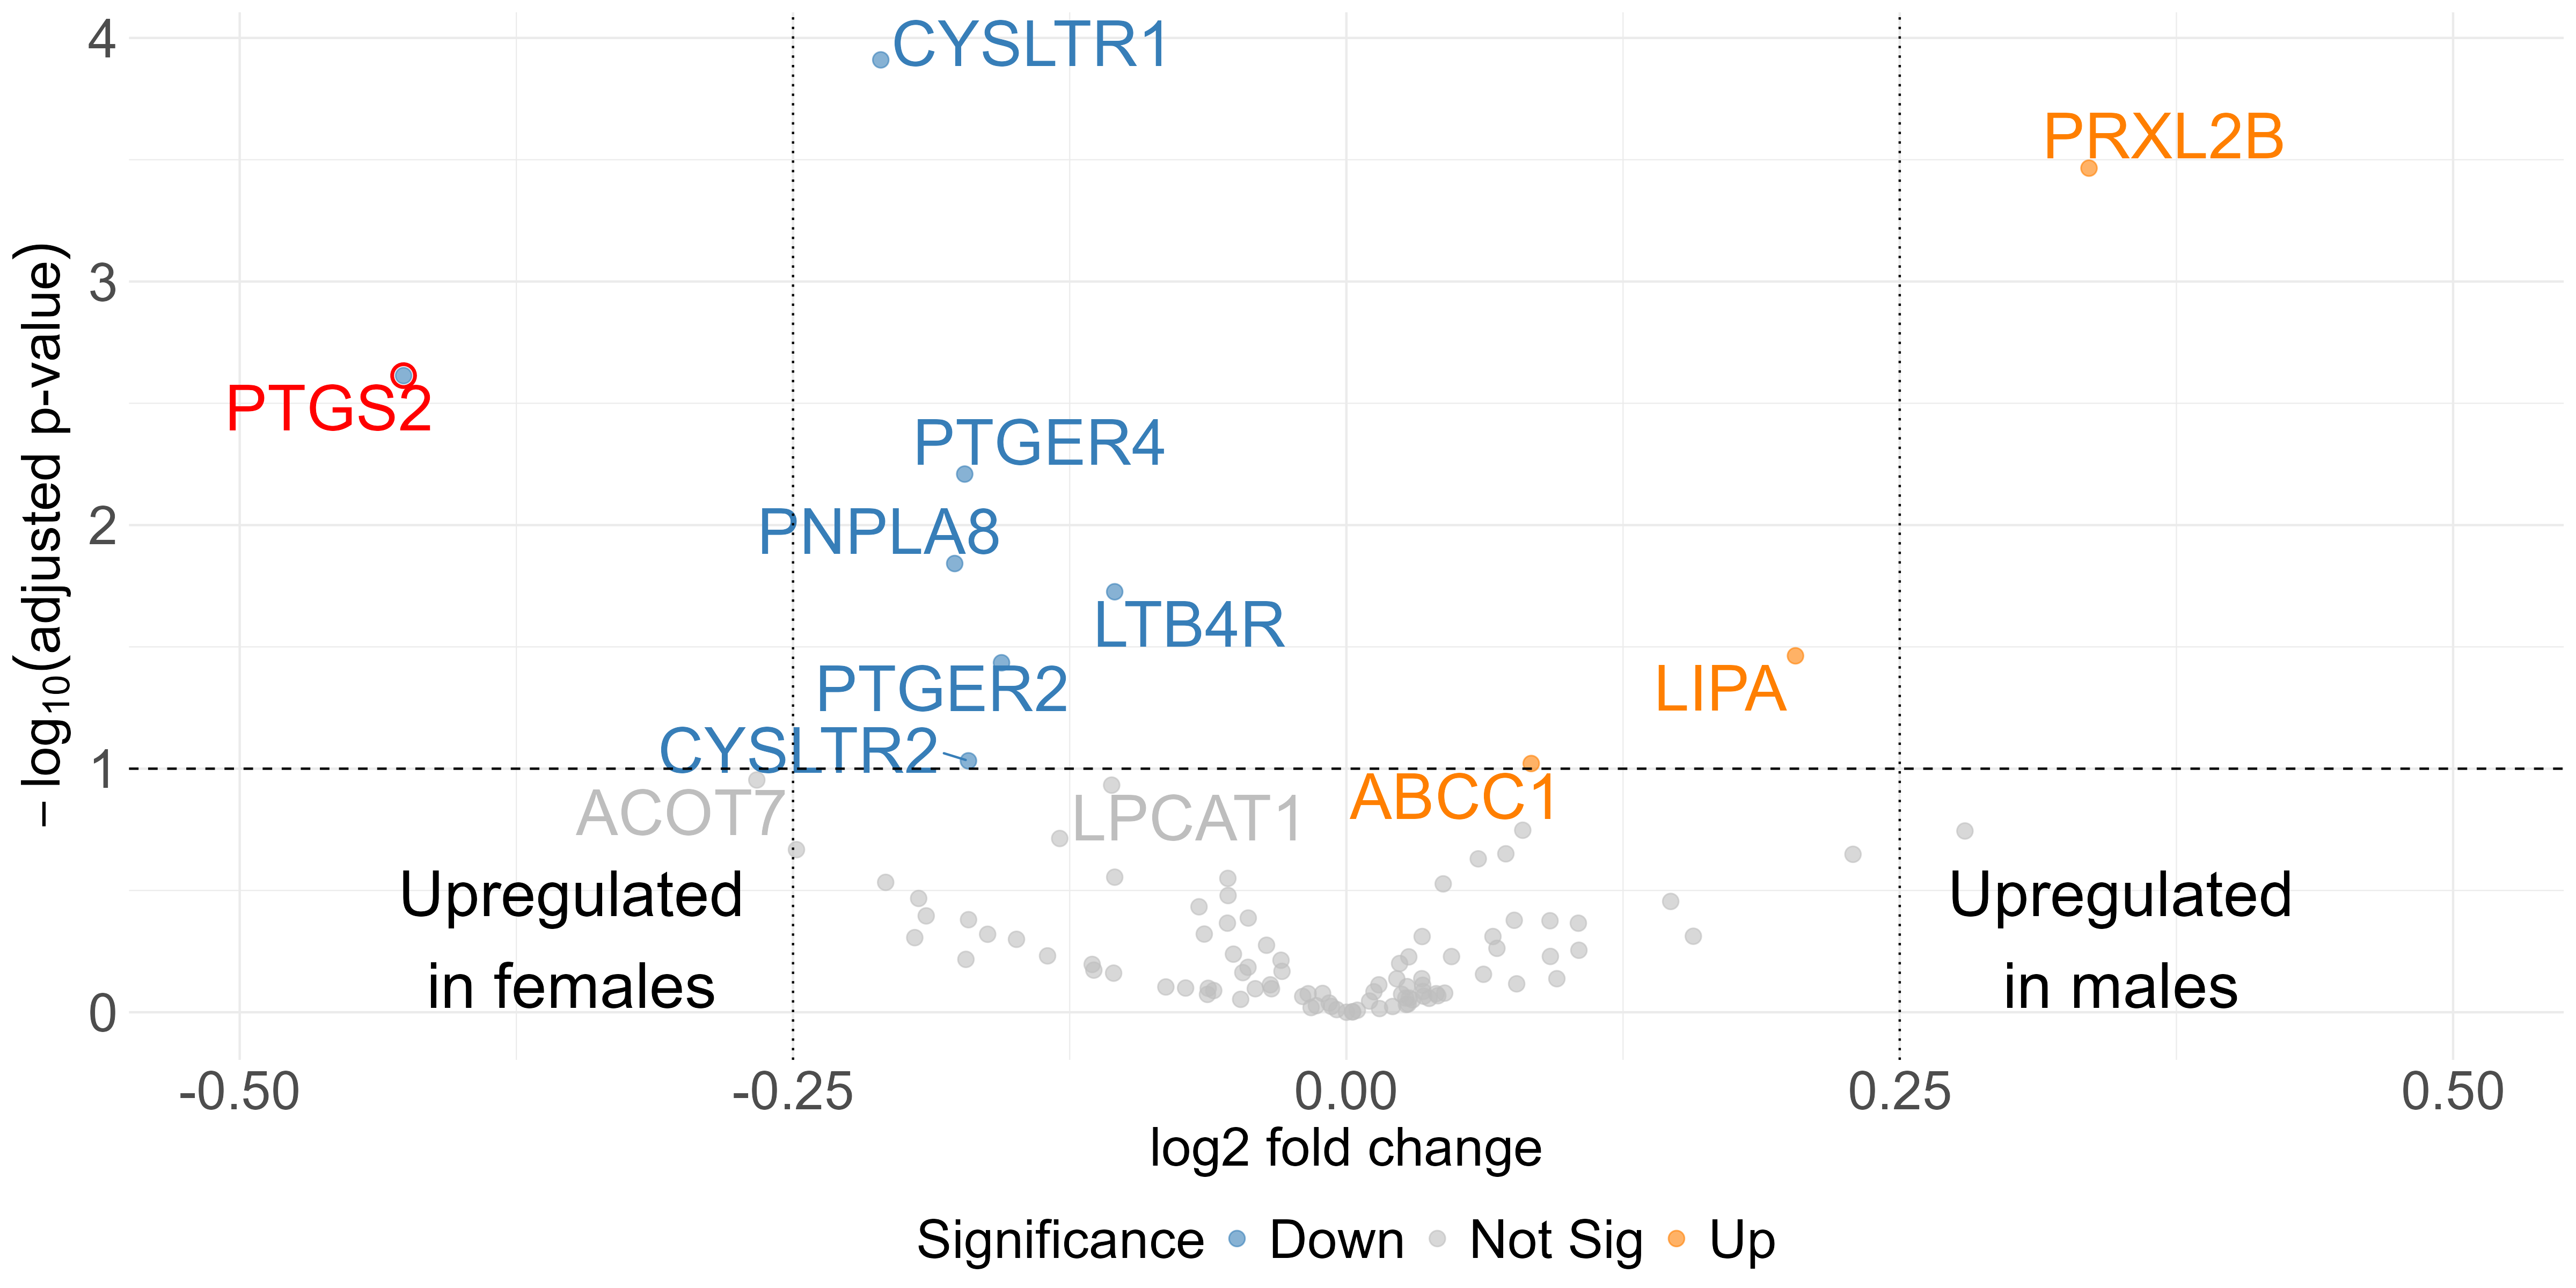
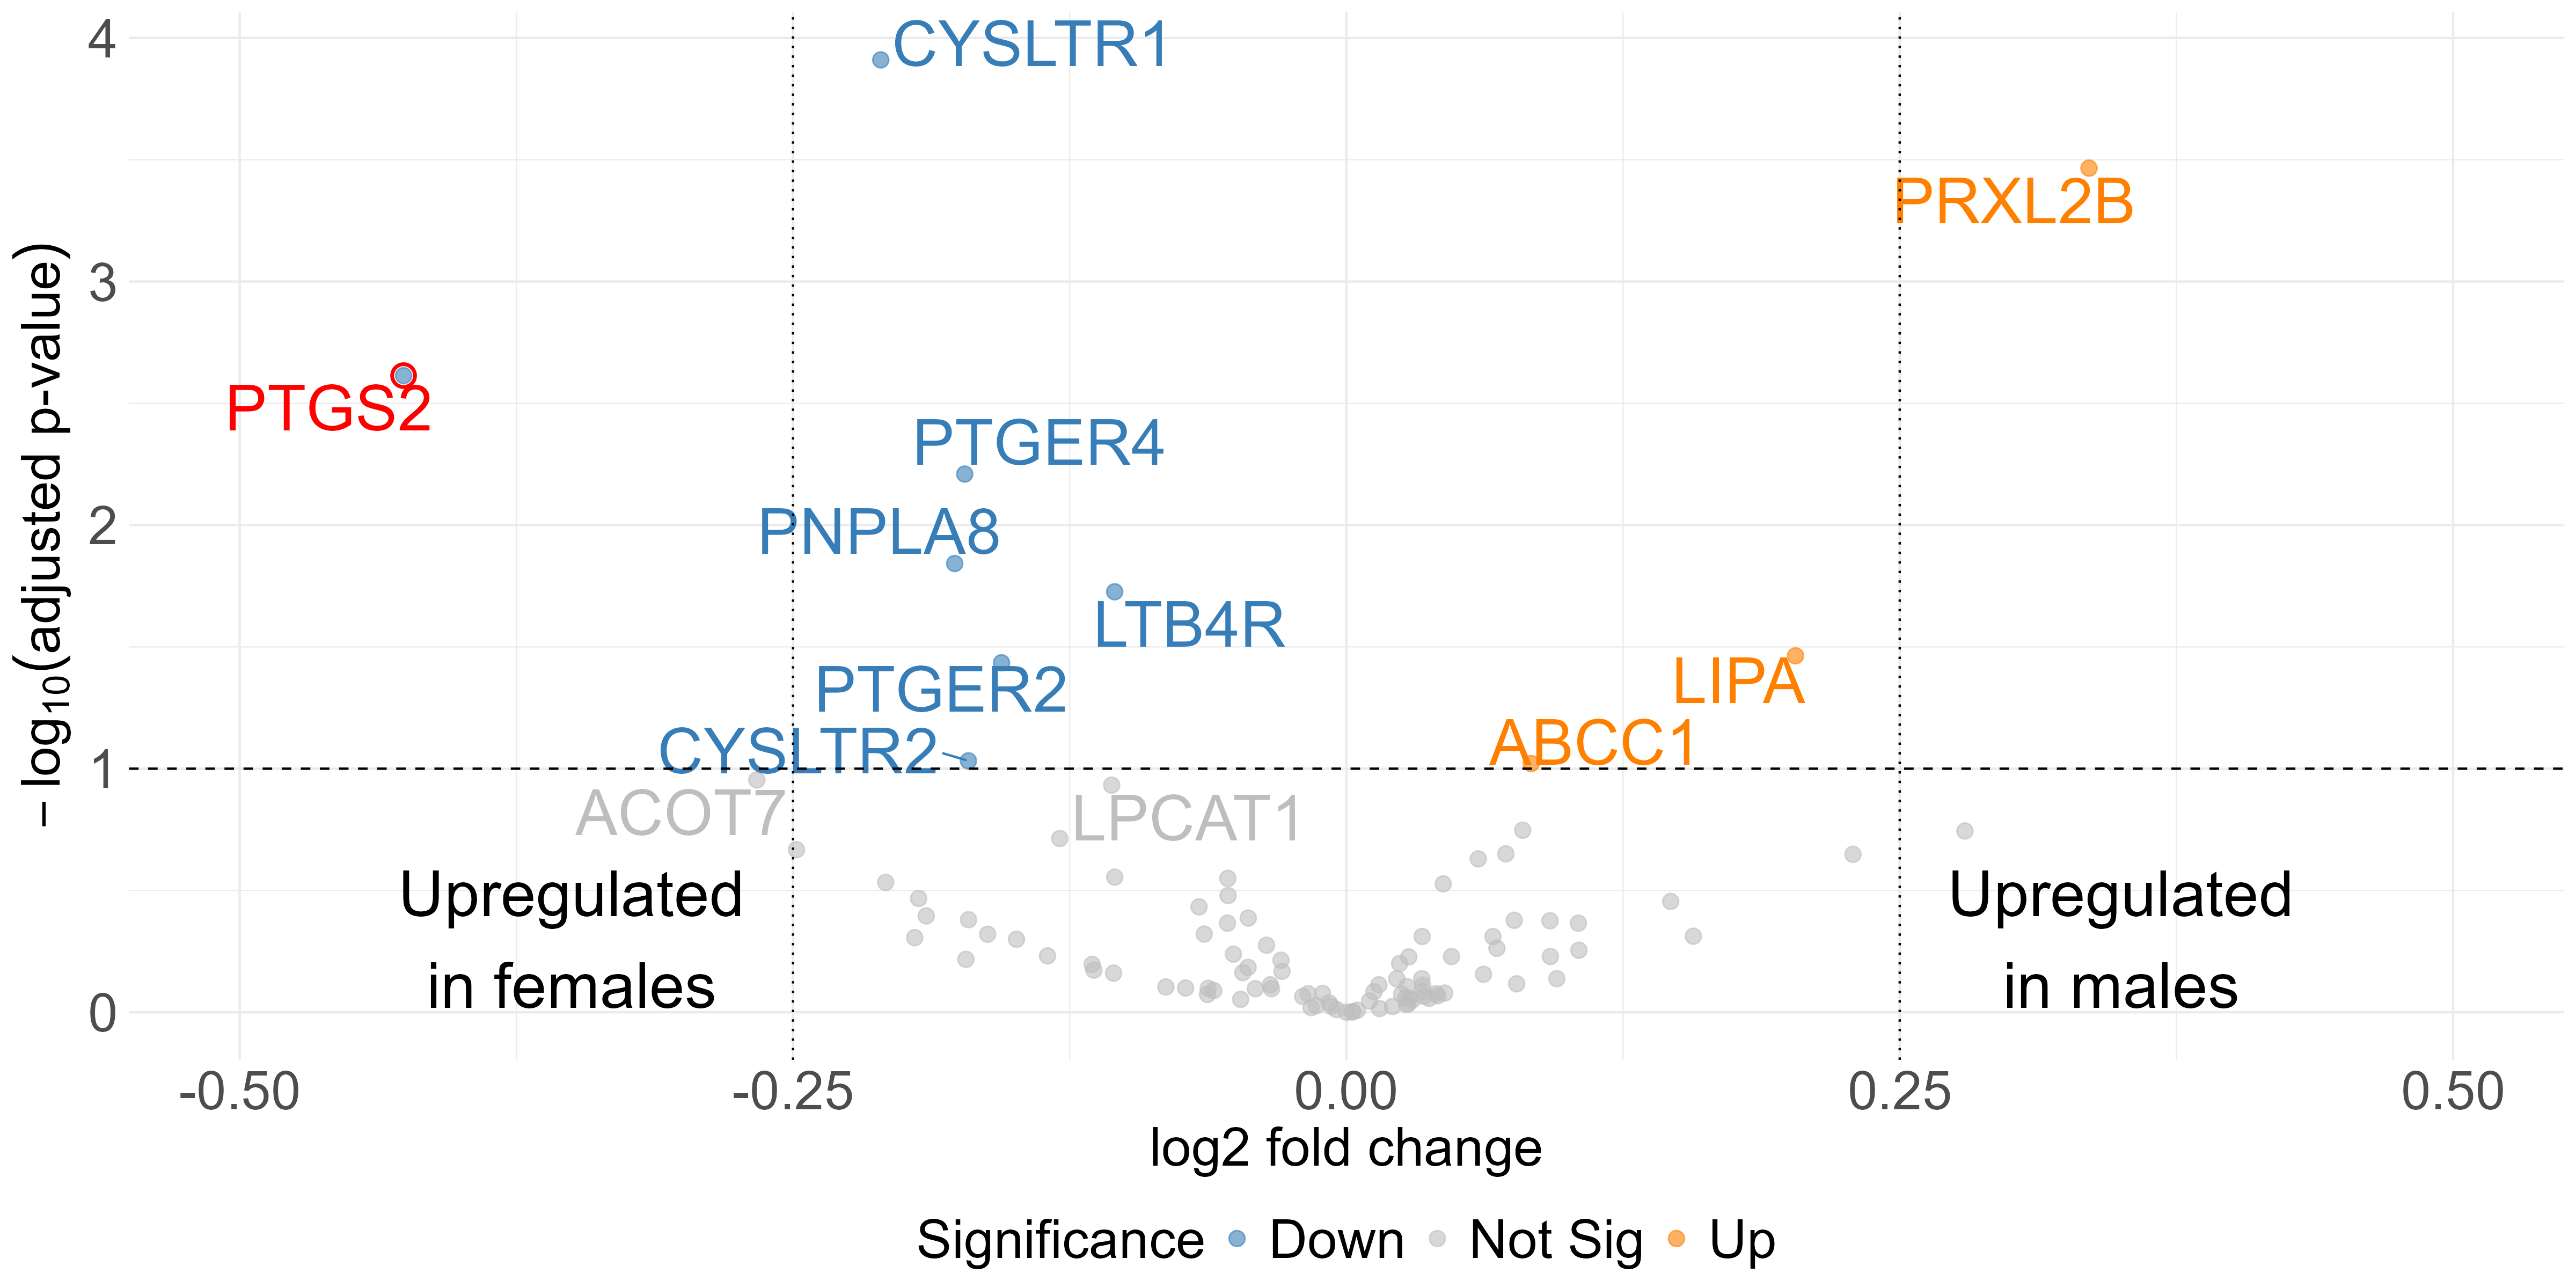
GAT

Changed region(s): [[0.7188, 0.0938, 0.9062, 0.1875], [0.5312, 0.5, 0.7188, 0.6562]]

diff --git a/tex/MLA-GNN/table_nachos_AUC-PRC.tex b/tex/MLA-GNN/table_nachos_AUC-PRC.tex
@@ -1,0 +1,42 @@
+% table_ahpo.tex (auto-generated)
+% Include in main.tex via: \input{table_ahpo}
+
+\begin{table}[ht]
+\centering
+\small
+\setlength{\tabcolsep}{4pt}
+\renewcommand{\arraystretch}{1.15}
+
+\resizebox{\textwidth}{!}{%
+    \begin{tabular}{c c c >{\columncolor{foldshade}}c c >{\columncolor{foldshade}}c c >{\columncolor{foldshade}}c c >{\columncolor{foldshade}}c c >{\columncolor{foldshade}}c}
+    \toprule
+    & \multicolumn{10}{c}{Fold reserved for test} \\
+    \cmidrule(lr){3-12}
+    Hyperparameter & & $F_{0}$ & $F_{1}$ & $F_{2}$ & $F_{3}$ & $F_{4}$ & $F_{5}$ & $F_{6}$ & $F_{7}$ & $F_{8}$ & $F_{9}$ \\
+    configuration \\
+    \midrule
+
+    \multirow{9}{*}{\rotatebox[origin=c]{90}{\shortstack{AHPO/\\Cross-validation}}} &
+$h\_0$ & 0.517 ± 0.091 & 0.526 ± 0.100 & 0.510 ± 0.092 & 0.505 ± 0.070 & 0.480 ± 0.095 & \best{0.545 ± 0.100} & 0.518 ± 0.063 & 0.542 ± 0.088 & 0.547 ± 0.093 & 0.515 ± 0.116 \\
+    & $h\_1$ & 0.510 ± 0.093 & 0.544 ± 0.109 & 0.510 ± 0.090 & \best{0.524 ± 0.074} & 0.478 ± 0.098 & 0.518 ± 0.099 & 0.499 ± 0.083 & 0.526 ± 0.102 & 0.540 ± 0.094 & 0.496 ± 0.118 \\
+    & $h\_2$ & 0.528 ± 0.096 & 0.543 ± 0.108 & 0.528 ± 0.103 & 0.499 ± 0.053 & 0.502 ± 0.079 & 0.533 ± 0.108 & 0.518 ± 0.083 & 0.528 ± 0.083 & 0.517 ± 0.102 & 0.506 ± 0.100 \\
+    & $h\_3$ & 0.535 ± 0.082 & 0.539 ± 0.100 & 0.509 ± 0.105 & 0.490 ± 0.068 & 0.509 ± 0.100 & 0.544 ± 0.098 & 0.506 ± 0.079 & 0.527 ± 0.089 & \best{0.548 ± 0.097} & 0.519 ± 0.104 \\
+    & $h\_4$ & \best{0.543 ± 0.077} & 0.551 ± 0.117 & 0.510 ± 0.112 & 0.494 ± 0.058 & 0.512 ± 0.104 & 0.539 ± 0.108 & \best{0.534 ± 0.090} & 0.518 ± 0.098 & 0.546 ± 0.097 & 0.521 ± 0.117 \\
+    & $h\_5$ & 0.526 ± 0.090 & 0.535 ± 0.102 & 0.511 ± 0.099 & 0.493 ± 0.059 & 0.497 ± 0.100 & 0.530 ± 0.097 & 0.495 ± 0.077 & 0.537 ± 0.074 & 0.522 ± 0.095 & 0.492 ± 0.120 \\
+    & $h\_6$ & 0.522 ± 0.095 & 0.534 ± 0.109 & \best{0.531 ± 0.093} & 0.511 ± 0.061 & \best{0.516 ± 0.101} & 0.542 ± 0.101 & 0.514 ± 0.083 & 0.519 ± 0.084 & 0.539 ± 0.116 & 0.519 ± 0.101 \\
+    & $h\_7$ & 0.510 ± 0.094 & \best{0.552 ± 0.110} & 0.514 ± 0.118 & 0.508 ± 0.074 & 0.495 ± 0.099 & 0.538 ± 0.116 & 0.504 ± 0.082 & 0.516 ± 0.087 & 0.541 ± 0.100 & 0.501 ± 0.105 \\
+    & $h\_8$ & 0.522 ± 0.103 & 0.541 ± 0.111 & 0.511 ± 0.103 & 0.504 ± 0.064 & 0.507 ± 0.093 & 0.520 ± 0.107 & 0.510 ± 0.075 & \best{0.547 ± 0.099} & 0.527 ± 0.093 & \best{0.526 ± 0.110} \\
+    \midrule
+    & Best: $h_y$ & $h\_4$ & $h\_7$ & $h\_6$ & $h\_1$ & $h\_6$ & $h\_0$ & $h\_4$ & $h\_8$ & $h\_3$ & $h\_8$ \\
+    \midrule
+
+    \multirow{2}{*}{\rotatebox[origin=c]{90}{\shortstack{Cross-\\testing}}} &
+    AUC-PRC & $t_{0}$: 0.52 & $t_{1}$: 0.51 & $t_{2}$: 0.59 & $t_{3}$: 0.76 & $t_{4}$: 0.51 & $t_{5}$: 0.38 & $t_{6}$: 0.64 & $t_{7}$: 0.48 & $t_{8}$: 0.47 & $t_{9}$: 0.57 \\
+    \multicolumn{12}{c}{Average and standard error 0.54 $\pm$ 0.10} \\
+    \bottomrule
+    \end{tabular}
+}
+
+\caption{NACHOS AUC-PRC results for GAT}
+\label{tab:GATAUC-PRC}
+\end{table}

diff --git a/tex/MLA-GNN/table_nachos_AUC-ROC.tex b/tex/MLA-GNN/table_nachos_AUC-ROC.tex
@@ -1,0 +1,42 @@
+% table_ahpo.tex (auto-generated)
+% Include in main.tex via: \input{table_ahpo}
+
+\begin{table}[ht]
+\centering
+\small
+\setlength{\tabcolsep}{4pt}
+\renewcommand{\arraystretch}{1.15}
+
+\resizebox{\textwidth}{!}{%
+    \begin{tabular}{c c c >{\columncolor{foldshade}}c c >{\columncolor{foldshade}}c c >{\columncolor{foldshade}}c c >{\columncolor{foldshade}}c c >{\columncolor{foldshade}}c}
+    \toprule
+    & \multicolumn{10}{c}{Fold reserved for test} \\
+    \cmidrule(lr){3-12}
+    Hyperparameter & & $F_{0}$ & $F_{1}$ & $F_{2}$ & $F_{3}$ & $F_{4}$ & $F_{5}$ & $F_{6}$ & $F_{7}$ & $F_{8}$ & $F_{9}$ \\
+    configuration \\
+    \midrule
+
+    \multirow{9}{*}{\rotatebox[origin=c]{90}{\shortstack{AHPO/\\Cross-validation}}} &
+$h\_0$ & 0.623 ± 0.066 & 0.651 ± 0.061 & 0.625 ± 0.068 & 0.637 ± 0.054 & 0.609 ± 0.055 & 0.659 ± 0.066 & 0.630 ± 0.050 & \best{0.665 ± 0.054} & 0.652 ± 0.069 & 0.628 ± 0.086 \\
+    & $h\_1$ & 0.623 ± 0.062 & 0.652 ± 0.060 & 0.638 ± 0.052 & \best{0.650 ± 0.048} & 0.600 ± 0.061 & 0.644 ± 0.070 & 0.618 ± 0.050 & 0.639 ± 0.065 & 0.654 ± 0.061 & 0.613 ± 0.077 \\
+    & $h\_2$ & 0.633 ± 0.063 & 0.664 ± 0.063 & 0.643 ± 0.069 & 0.641 ± 0.055 & 0.612 ± 0.046 & 0.649 ± 0.077 & 0.634 ± 0.056 & 0.650 ± 0.066 & 0.632 ± 0.068 & 0.630 ± 0.073 \\
+    & $h\_3$ & 0.642 ± 0.062 & 0.666 ± 0.060 & 0.634 ± 0.067 & 0.634 ± 0.051 & 0.629 ± 0.050 & 0.665 ± 0.062 & 0.627 ± 0.054 & 0.655 ± 0.060 & \best{0.659 ± 0.065} & 0.638 ± 0.079 \\
+    & $h\_4$ & \best{0.644 ± 0.043} & 0.668 ± 0.057 & 0.639 ± 0.069 & 0.643 ± 0.043 & 0.624 ± 0.057 & 0.654 ± 0.073 & \best{0.647 ± 0.051} & 0.643 ± 0.072 & 0.653 ± 0.064 & 0.635 ± 0.081 \\
+    & $h\_5$ & 0.634 ± 0.058 & 0.642 ± 0.069 & 0.635 ± 0.075 & 0.635 ± 0.052 & 0.606 ± 0.057 & 0.643 ± 0.071 & 0.623 ± 0.047 & 0.649 ± 0.057 & 0.629 ± 0.060 & 0.616 ± 0.089 \\
+    & $h\_6$ & 0.631 ± 0.067 & 0.667 ± 0.062 & \best{0.649 ± 0.069} & 0.642 ± 0.050 & \best{0.631 ± 0.059} & \best{0.669 ± 0.063} & 0.636 ± 0.057 & 0.656 ± 0.047 & 0.643 ± 0.079 & \best{0.648 ± 0.073} \\
+    & $h\_7$ & 0.630 ± 0.060 & \best{0.676 ± 0.063} & 0.646 ± 0.073 & 0.643 ± 0.048 & 0.614 ± 0.049 & 0.662 ± 0.064 & 0.635 ± 0.048 & 0.637 ± 0.063 & 0.654 ± 0.062 & 0.632 ± 0.083 \\
+    & $h\_8$ & 0.626 ± 0.071 & 0.664 ± 0.065 & 0.632 ± 0.062 & 0.639 ± 0.065 & 0.609 ± 0.063 & 0.651 ± 0.072 & 0.633 ± 0.056 & 0.662 ± 0.053 & 0.633 ± 0.057 & 0.644 ± 0.077 \\
+    \midrule
+    & Best: $h_y$ & $h\_4$ & $h\_7$ & $h\_6$ & $h\_1$ & $h\_6$ & $h\_6$ & $h\_4$ & $h\_0$ & $h\_3$ & $h\_6$ \\
+    \midrule
+
+    \multirow{2}{*}{\rotatebox[origin=c]{90}{\shortstack{Cross-\\testing}}} &
+    AUC-ROC & $t_{0}$: 0.66 & $t_{1}$: 0.63 & $t_{2}$: 0.69 & $t_{3}$: 0.75 & $t_{4}$: 0.69 & $t_{5}$: 0.59 & $t_{6}$: 0.65 & $t_{7}$: 0.57 & $t_{8}$: 0.61 & $t_{9}$: 0.68 \\
+    \multicolumn{12}{c}{Average and standard error 0.65 $\pm$ 0.05} \\
+    \bottomrule
+    \end{tabular}
+}
+
+\caption{NACHOS AUC-ROC results for GAT}
+\label{tab:GATAUC-ROC}
+\end{table}

diff --git a/tex/MLA-GNN/table_nachos_Accuracy.tex b/tex/MLA-GNN/table_nachos_Accuracy.tex
@@ -1,0 +1,42 @@
+% table_ahpo.tex (auto-generated)
+% Include in main.tex via: \input{table_ahpo}
+
+\begin{table}[ht]
+\centering
+\small
+\setlength{\tabcolsep}{4pt}
+\renewcommand{\arraystretch}{1.15}
+
+\resizebox{\textwidth}{!}{%
+    \begin{tabular}{c c c >{\columncolor{foldshade}}c c >{\columncolor{foldshade}}c c >{\columncolor{foldshade}}c c >{\columncolor{foldshade}}c c >{\columncolor{foldshade}}c}
+    \toprule
+    & \multicolumn{10}{c}{Fold reserved for test} \\
+    \cmidrule(lr){3-12}
+    Hyperparameter & & $F_{0}$ & $F_{1}$ & $F_{2}$ & $F_{3}$ & $F_{4}$ & $F_{5}$ & $F_{6}$ & $F_{7}$ & $F_{8}$ & $F_{9}$ \\
+    configuration \\
+    \midrule
+
+    \multirow{9}{*}{\rotatebox[origin=c]{90}{\shortstack{AHPO/\\Cross-validation}}} &
+$h\_0$ & 0.594 ± 0.056 & 0.610 ± 0.061 & 0.589 ± 0.057 & 0.605 ± 0.058 & 0.579 ± 0.021 & \best{0.627 ± 0.048} & 0.568 ± 0.051 & \best{0.622 ± 0.058} & 0.612 ± 0.046 & 0.603 ± 0.058 \\
+    & $h\_1$ & 0.589 ± 0.040 & 0.602 ± 0.056 & 0.624 ± 0.038 & 0.616 ± 0.049 & 0.584 ± 0.042 & 0.625 ± 0.050 & 0.592 ± 0.056 & 0.603 ± 0.049 & \best{0.635 ± 0.038} & 0.601 ± 0.033 \\
+    & $h\_2$ & 0.594 ± 0.051 & 0.624 ± 0.057 & 0.586 ± 0.074 & 0.610 ± 0.033 & 0.587 ± 0.025 & 0.622 ± 0.057 & 0.592 ± 0.041 & 0.606 ± 0.045 & 0.614 ± 0.051 & 0.609 ± 0.052 \\
+    & $h\_3$ & 0.602 ± 0.036 & 0.632 ± 0.061 & 0.624 ± 0.047 & 0.610 ± 0.054 & 0.579 ± 0.022 & 0.617 ± 0.034 & \best{0.601 ± 0.058} & 0.603 ± 0.039 & 0.628 ± 0.070 & \best{0.633 ± 0.056} \\
+    & $h\_4$ & 0.605 ± 0.042 & \best{0.640 ± 0.043} & 0.618 ± 0.044 & 0.605 ± 0.052 & \best{0.595 ± 0.026} & 0.622 ± 0.051 & 0.590 ± 0.039 & 0.600 ± 0.046 & 0.603 ± 0.035 & 0.617 ± 0.053 \\
+    & $h\_5$ & \best{0.613 ± 0.048} & 0.605 ± 0.060 & 0.599 ± 0.054 & 0.591 ± 0.045 & 0.579 ± 0.028 & 0.627 ± 0.063 & 0.579 ± 0.061 & 0.606 ± 0.044 & 0.622 ± 0.041 & 0.611 ± 0.052 \\
+    & $h\_6$ & 0.597 ± 0.046 & 0.632 ± 0.037 & \best{0.626 ± 0.064} & 0.624 ± 0.052 & 0.592 ± 0.039 & 0.622 ± 0.037 & 0.598 ± 0.061 & 0.622 ± 0.058 & 0.598 ± 0.056 & 0.606 ± 0.052 \\
+    & $h\_7$ & 0.610 ± 0.033 & 0.640 ± 0.049 & 0.624 ± 0.040 & \best{0.626 ± 0.060} & 0.587 ± 0.038 & 0.617 ± 0.051 & 0.587 ± 0.046 & 0.617 ± 0.052 & 0.606 ± 0.039 & 0.619 ± 0.050 \\
+    & $h\_8$ & 0.597 ± 0.059 & 0.634 ± 0.044 & 0.594 ± 0.060 & 0.621 ± 0.048 & 0.576 ± 0.023 & 0.606 ± 0.045 & 0.600 ± 0.050 & 0.611 ± 0.045 & 0.604 ± 0.051 & 0.614 ± 0.055 \\
+    \midrule
+    & Best: $h_y$ & $h\_5$ & $h\_4$ & $h\_6$ & $h\_7$ & $h\_4$ & $h\_0$ & $h\_3$ & $h\_0$ & $h\_1$ & $h\_3$ \\
+    \midrule
+
+    \multirow{2}{*}{\rotatebox[origin=c]{90}{\shortstack{Cross-\\testing}}} &
+    Accuracy & $t_{0}$: 0.64 & $t_{1}$: 0.64 & $t_{2}$: 0.62 & $t_{3}$: 0.57 & $t_{4}$: 0.71 & $t_{5}$: 0.63 & $t_{6}$: 0.59 & $t_{7}$: 0.56 & $t_{8}$: 0.56 & $t_{9}$: 0.56 \\
+    \multicolumn{12}{c}{Average and standard error 0.61 $\pm$ 0.05} \\
+    \bottomrule
+    \end{tabular}
+}
+
+\caption{NACHOS Accuracy results for GAT}
+\label{tab:GATAccuracy}
+\end{table}

diff --git a/tex/MLA-GNN/table_nachos_F1.tex b/tex/MLA-GNN/table_nachos_F1.tex
@@ -1,0 +1,42 @@
+% table_ahpo.tex (auto-generated)
+% Include in main.tex via: \input{table_ahpo}
+
+\begin{table}[ht]
+\centering
+\small
+\setlength{\tabcolsep}{4pt}
+\renewcommand{\arraystretch}{1.15}
+
+\resizebox{\textwidth}{!}{%
+    \begin{tabular}{c c c >{\columncolor{foldshade}}c c >{\columncolor{foldshade}}c c >{\columncolor{foldshade}}c c >{\columncolor{foldshade}}c c >{\columncolor{foldshade}}c}
+    \toprule
+    & \multicolumn{10}{c}{Fold reserved for test} \\
+    \cmidrule(lr){3-12}
+    Hyperparameter & & $F_{0}$ & $F_{1}$ & $F_{2}$ & $F_{3}$ & $F_{4}$ & $F_{5}$ & $F_{6}$ & $F_{7}$ & $F_{8}$ & $F_{9}$ \\
+    configuration \\
+    \midrule
+
+    \multirow{9}{*}{\rotatebox[origin=c]{90}{\shortstack{AHPO/\\Cross-validation}}} &
+$h\_0$ & 0.575 ± 0.053 & 0.585 ± 0.070 & 0.562 ± 0.054 & 0.579 ± 0.069 & 0.554 ± 0.025 & 0.603 ± 0.057 & 0.545 ± 0.051 & 0.596 ± 0.061 & 0.591 ± 0.053 & 0.580 ± 0.068 \\
+    & $h\_1$ & 0.565 ± 0.039 & 0.581 ± 0.059 & 0.594 ± 0.041 & 0.593 ± 0.054 & 0.560 ± 0.043 & 0.602 ± 0.055 & 0.573 ± 0.061 & 0.583 ± 0.061 & \best{0.613 ± 0.046} & 0.577 ± 0.044 \\
+    & $h\_2$ & 0.572 ± 0.049 & 0.603 ± 0.061 & 0.565 ± 0.076 & 0.582 ± 0.040 & 0.562 ± 0.034 & 0.595 ± 0.069 & 0.572 ± 0.046 & 0.580 ± 0.047 & 0.586 ± 0.058 & 0.585 ± 0.055 \\
+    & $h\_3$ & 0.580 ± 0.037 & 0.610 ± 0.071 & 0.597 ± 0.060 & 0.584 ± 0.058 & 0.556 ± 0.027 & 0.592 ± 0.045 & 0.574 ± 0.064 & 0.581 ± 0.047 & 0.605 ± 0.068 & \best{0.608 ± 0.063} \\
+    & $h\_4$ & 0.583 ± 0.046 & \best{0.618 ± 0.049} & 0.590 ± 0.053 & 0.579 ± 0.055 & \best{0.570 ± 0.030} & 0.600 ± 0.061 & 0.565 ± 0.042 & 0.581 ± 0.054 & 0.583 ± 0.041 & 0.594 ± 0.064 \\
+    & $h\_5$ & \best{0.590 ± 0.051} & 0.580 ± 0.060 & 0.574 ± 0.052 & 0.565 ± 0.052 & 0.556 ± 0.040 & \best{0.604 ± 0.065} & 0.556 ± 0.058 & 0.580 ± 0.051 & 0.597 ± 0.044 & 0.588 ± 0.064 \\
+    & $h\_6$ & 0.577 ± 0.044 & 0.605 ± 0.043 & \best{0.598 ± 0.072} & 0.596 ± 0.061 & 0.568 ± 0.047 & 0.596 ± 0.055 & 0.576 ± 0.065 & \best{0.601 ± 0.064} & 0.578 ± 0.066 & 0.581 ± 0.054 \\
+    & $h\_7$ & 0.587 ± 0.035 & 0.616 ± 0.049 & 0.598 ± 0.047 & \best{0.604 ± 0.066} & 0.565 ± 0.043 & 0.597 ± 0.059 & 0.564 ± 0.050 & 0.592 ± 0.060 & 0.584 ± 0.047 & 0.595 ± 0.059 \\
+    & $h\_8$ & 0.576 ± 0.057 & 0.608 ± 0.053 & 0.570 ± 0.064 & 0.595 ± 0.055 & 0.554 ± 0.033 & 0.581 ± 0.050 & \best{0.581 ± 0.057} & 0.590 ± 0.049 & 0.581 ± 0.051 & 0.592 ± 0.064 \\
+    \midrule
+    & Best: $h_y$ & $h\_5$ & $h\_4$ & $h\_6$ & $h\_7$ & $h\_4$ & $h\_5$ & $h\_8$ & $h\_6$ & $h\_1$ & $h\_3$ \\
+    \midrule
+
+    \multirow{2}{*}{\rotatebox[origin=c]{90}{\shortstack{Cross-\\testing}}} &
+    F1 & $t_{0}$: 0.62 & $t_{1}$: 0.59 & $t_{2}$: 0.61 & $t_{3}$: 0.57 & $t_{4}$: 0.70 & $t_{5}$: 0.62 & $t_{6}$: 0.56 & $t_{7}$: 0.51 & $t_{8}$: 0.54 & $t_{9}$: 0.55 \\
+    \multicolumn{12}{c}{Average and standard error 0.59 $\pm$ 0.05} \\
+    \bottomrule
+    \end{tabular}
+}
+
+\caption{NACHOS F1 results for GAT}
+\label{tab:GATF1}
+\end{table}

diff --git a/tex/MLA-GNN/table_nachos_Precision.tex b/tex/MLA-GNN/table_nachos_Precision.tex
@@ -1,0 +1,42 @@
+% table_ahpo.tex (auto-generated)
+% Include in main.tex via: \input{table_ahpo}
+
+\begin{table}[ht]
+\centering
+\small
+\setlength{\tabcolsep}{4pt}
+\renewcommand{\arraystretch}{1.15}
+
+\resizebox{\textwidth}{!}{%
+    \begin{tabular}{c c c >{\columncolor{foldshade}}c c >{\columncolor{foldshade}}c c >{\columncolor{foldshade}}c c >{\columncolor{foldshade}}c c >{\columncolor{foldshade}}c}
+    \toprule
+    & \multicolumn{10}{c}{Fold reserved for test} \\
+    \cmidrule(lr){3-12}
+    Hyperparameter & & $F_{0}$ & $F_{1}$ & $F_{2}$ & $F_{3}$ & $F_{4}$ & $F_{5}$ & $F_{6}$ & $F_{7}$ & $F_{8}$ & $F_{9}$ \\
+    configuration \\
+    \midrule
+
+    \multirow{9}{*}{\rotatebox[origin=c]{90}{\shortstack{AHPO/\\Cross-validation}}} &
+$h\_0$ & 0.586 ± 0.045 & 0.589 ± 0.068 & 0.572 ± 0.048 & 0.584 ± 0.067 & 0.561 ± 0.030 & 0.608 ± 0.054 & 0.559 ± 0.051 & 0.606 ± 0.059 & 0.600 ± 0.054 & 0.589 ± 0.067 \\
+    & $h\_1$ & 0.573 ± 0.036 & 0.589 ± 0.058 & 0.602 ± 0.043 & 0.602 ± 0.054 & 0.567 ± 0.041 & 0.609 ± 0.052 & 0.584 ± 0.058 & 0.592 ± 0.066 & \best{0.616 ± 0.046} & 0.585 ± 0.047 \\
+    & $h\_2$ & 0.578 ± 0.044 & 0.608 ± 0.057 & 0.576 ± 0.070 & 0.586 ± 0.039 & 0.568 ± 0.034 & 0.603 ± 0.069 & 0.582 ± 0.048 & 0.587 ± 0.045 & 0.594 ± 0.057 & 0.592 ± 0.052 \\
+    & $h\_3$ & 0.588 ± 0.035 & 0.614 ± 0.068 & 0.601 ± 0.061 & 0.588 ± 0.053 & 0.564 ± 0.029 & 0.597 ± 0.045 & 0.580 ± 0.063 & 0.588 ± 0.050 & 0.614 ± 0.065 & \best{0.615 ± 0.061} \\
+    & $h\_4$ & 0.588 ± 0.045 & \best{0.622 ± 0.046} & 0.594 ± 0.052 & 0.584 ± 0.053 & \best{0.575 ± 0.031} & 0.606 ± 0.062 & 0.575 ± 0.045 & 0.587 ± 0.054 & 0.593 ± 0.042 & 0.601 ± 0.063 \\
+    & $h\_5$ & \best{0.595 ± 0.048} & 0.584 ± 0.056 & 0.581 ± 0.047 & 0.569 ± 0.051 & 0.567 ± 0.043 & \best{0.611 ± 0.061} & 0.567 ± 0.056 & 0.586 ± 0.052 & 0.604 ± 0.044 & 0.597 ± 0.066 \\
+    & $h\_6$ & 0.583 ± 0.041 & 0.609 ± 0.044 & 0.600 ± 0.069 & 0.599 ± 0.059 & 0.574 ± 0.047 & 0.601 ± 0.057 & 0.583 ± 0.063 & \best{0.608 ± 0.062} & 0.589 ± 0.069 & 0.588 ± 0.052 \\
+    & $h\_7$ & 0.591 ± 0.033 & 0.621 ± 0.045 & \best{0.603 ± 0.047} & \best{0.608 ± 0.062} & 0.574 ± 0.044 & 0.607 ± 0.057 & 0.572 ± 0.050 & 0.598 ± 0.062 & 0.592 ± 0.049 & 0.600 ± 0.057 \\
+    & $h\_8$ & 0.586 ± 0.053 & 0.610 ± 0.052 & 0.578 ± 0.060 & 0.599 ± 0.053 & 0.565 ± 0.041 & 0.588 ± 0.050 & \best{0.590 ± 0.058} & 0.595 ± 0.049 & 0.586 ± 0.049 & 0.598 ± 0.063 \\
+    \midrule
+    & Best: $h_y$ & $h\_5$ & $h\_4$ & $h\_7$ & $h\_7$ & $h\_4$ & $h\_5$ & $h\_8$ & $h\_6$ & $h\_1$ & $h\_3$ \\
+    \midrule
+
+    \multirow{2}{*}{\rotatebox[origin=c]{90}{\shortstack{Cross-\\testing}}} &
+    Precision & $t_{0}$: 0.62 & $t_{1}$: 0.59 & $t_{2}$: 0.62 & $t_{3}$: 0.60 & $t_{4}$: 0.70 & $t_{5}$: 0.62 & $t_{6}$: 0.56 & $t_{7}$: 0.52 & $t_{8}$: 0.56 & $t_{9}$: 0.57 \\
+    \multicolumn{12}{c}{Average and standard error 0.60 $\pm$ 0.05} \\
+    \bottomrule
+    \end{tabular}
+}
+
+\caption{NACHOS Precision results for GAT}
+\label{tab:GATPrecision}
+\end{table}

diff --git a/tex/MLA-GNN/table_nachos_Recall.tex b/tex/MLA-GNN/table_nachos_Recall.tex
@@ -1,0 +1,42 @@
+% table_ahpo.tex (auto-generated)
+% Include in main.tex via: \input{table_ahpo}
+
+\begin{table}[ht]
+\centering
+\small
+\setlength{\tabcolsep}{4pt}
+\renewcommand{\arraystretch}{1.15}
+
+\resizebox{\textwidth}{!}{%
+    \begin{tabular}{c c c >{\columncolor{foldshade}}c c >{\columncolor{foldshade}}c c >{\columncolor{foldshade}}c c >{\columncolor{foldshade}}c c >{\columncolor{foldshade}}c}
+    \toprule
+    & \multicolumn{10}{c}{Fold reserved for test} \\
+    \cmidrule(lr){3-12}
+    Hyperparameter & & $F_{0}$ & $F_{1}$ & $F_{2}$ & $F_{3}$ & $F_{4}$ & $F_{5}$ & $F_{6}$ & $F_{7}$ & $F_{8}$ & $F_{9}$ \\
+    configuration \\
+    \midrule
+
+    \multirow{9}{*}{\rotatebox[origin=c]{90}{\shortstack{AHPO/\\Cross-validation}}} &
+$h\_0$ & 0.594 ± 0.048 & 0.596 ± 0.072 & 0.577 ± 0.052 & 0.593 ± 0.073 & 0.567 ± 0.033 & 0.618 ± 0.059 & 0.564 ± 0.056 & 0.612 ± 0.065 & 0.609 ± 0.061 & 0.597 ± 0.074 \\
+    & $h\_1$ & 0.579 ± 0.037 & 0.597 ± 0.063 & 0.609 ± 0.048 & 0.611 ± 0.057 & 0.573 ± 0.046 & 0.618 ± 0.057 & 0.593 ± 0.064 & 0.601 ± 0.073 & \best{0.627 ± 0.053} & 0.593 ± 0.052 \\
+    & $h\_2$ & 0.586 ± 0.048 & 0.619 ± 0.062 & 0.583 ± 0.078 & 0.594 ± 0.043 & 0.575 ± 0.038 & 0.612 ± 0.074 & 0.591 ± 0.053 & 0.593 ± 0.051 & 0.600 ± 0.063 & 0.599 ± 0.058 \\
+    & $h\_3$ & 0.597 ± 0.039 & 0.625 ± 0.074 & 0.611 ± 0.068 & 0.595 ± 0.057 & 0.570 ± 0.032 & 0.607 ± 0.049 & 0.588 ± 0.069 & 0.597 ± 0.055 & 0.622 ± 0.071 & \best{0.624 ± 0.068} \\
+    & $h\_4$ & 0.597 ± 0.050 & \best{0.633 ± 0.050} & 0.601 ± 0.057 & 0.591 ± 0.057 & \best{0.583 ± 0.035} & 0.618 ± 0.069 & 0.582 ± 0.050 & 0.595 ± 0.061 & 0.602 ± 0.046 & 0.610 ± 0.069 \\
+    & $h\_5$ & \best{0.605 ± 0.052} & 0.590 ± 0.057 & 0.587 ± 0.051 & 0.576 ± 0.056 & 0.574 ± 0.047 & \best{0.621 ± 0.066} & 0.572 ± 0.060 & 0.592 ± 0.057 & 0.612 ± 0.049 & 0.605 ± 0.073 \\
+    & $h\_6$ & 0.592 ± 0.044 & 0.617 ± 0.045 & 0.609 ± 0.075 & 0.608 ± 0.065 & 0.581 ± 0.051 & 0.613 ± 0.063 & 0.592 ± 0.070 & \best{0.617 ± 0.069} & 0.597 ± 0.075 & 0.595 ± 0.057 \\
+    & $h\_7$ & 0.600 ± 0.035 & 0.631 ± 0.048 & \best{0.612 ± 0.051} & \best{0.619 ± 0.067} & 0.582 ± 0.048 & 0.618 ± 0.063 & 0.580 ± 0.056 & 0.605 ± 0.068 & 0.600 ± 0.056 & 0.608 ± 0.062 \\
+    & $h\_8$ & 0.593 ± 0.055 & 0.619 ± 0.057 & 0.585 ± 0.066 & 0.608 ± 0.058 & 0.571 ± 0.044 & 0.597 ± 0.054 & \best{0.601 ± 0.065} & 0.603 ± 0.054 & 0.594 ± 0.055 & 0.607 ± 0.069 \\
+    \midrule
+    & Best: $h_y$ & $h\_5$ & $h\_4$ & $h\_7$ & $h\_7$ & $h\_4$ & $h\_5$ & $h\_8$ & $h\_6$ & $h\_1$ & $h\_3$ \\
+    \midrule
+
+    \multirow{2}{*}{\rotatebox[origin=c]{90}{\shortstack{Cross-\\testing}}} &
+    Recall & $t_{0}$: 0.62 & $t_{1}$: 0.59 & $t_{2}$: 0.63 & $t_{3}$: 0.61 & $t_{4}$: 0.73 & $t_{5}$: 0.64 & $t_{6}$: 0.56 & $t_{7}$: 0.52 & $t_{8}$: 0.57 & $t_{9}$: 0.58 \\
+    \multicolumn{12}{c}{Average and standard error 0.60 $\pm$ 0.05} \\
+    \bottomrule
+    \end{tabular}
+}
+
+\caption{NACHOS Recall results for GAT}
+\label{tab:GATRecall}
+\end{table}

diff --git a/tex/MLA-GNN/test_fold_distributions.tex b/tex/MLA-GNN/test_fold_distributions.tex
@@ -1,0 +1,16 @@
+\begin{tabular}{lccccccccc}
+\toprule
+Fold & Females & Males & Young Adults & Middle Age & Older Adults & JP & SG & KR & TH \\
+\midrule
+0 & 66.7 & 33.3 & 40.5 & 57.1 & 2.4 & 28.6 & 28.6 & 28.6 & 14.3 \\
+1 & 66.7 & 33.3 & 47.6 & 50.0 & 2.4 & 28.6 & 28.6 & 28.6 & 14.3 \\
+2 & 64.3 & 35.7 & 45.2 & 50.0 & 4.8 & 28.6 & 28.6 & 28.6 & 14.3 \\
+3 & 64.3 & 35.7 & 57.1 & 38.1 & 4.8 & 28.6 & 28.6 & 28.6 & 14.3 \\
+4 & 65.9 & 34.1 & 51.2 & 39.0 & 9.8 & 29.3 & 29.3 & 29.3 & 12.2 \\
+5 & 65.9 & 34.1 & 53.7 & 43.9 & 2.4 & 29.3 & 29.3 & 29.3 & 12.2 \\
+6 & 63.4 & 36.6 & 46.3 & 46.3 & 7.3 & 29.3 & 29.3 & 29.3 & 12.2 \\
+7 & 70.7 & 29.3 & 56.1 & 39.0 & 4.9 & 29.3 & 29.3 & 26.8 & 14.6 \\
+8 & 70.7 & 29.3 & 53.7 & 36.6 & 9.8 & 29.3 & 29.3 & 26.8 & 14.6 \\
+9 & 68.3 & 31.7 & 34.1 & 61.0 & 4.9 & 29.3 & 29.3 & 26.8 & 14.6 \\
+\bottomrule
+\end{tabular}

diff --git a/functions.py b/functions.py
@@ -126,6 +126,7 @@ def recolor_shap_waterfall():
                 elif color == default_neg_color:
                     fcc.set_color(negative_color)
 
+#Adjust to used R Version
 def removeBatchEffect(train_idx, test_idx, fold, model, outer="False"):
     result = subprocess.run([r"C:/Program Files/R/R-4.5.0/bin/Rscript.exe",
                         "removeBatchEffect.R",

diff --git a/readme.md b/readme.md
@@ -7,10 +7,12 @@ datashader
 adjustText
 torch
 torch_geometric
-scikit-learn
+scikit-learn 1.8.0
 ipywidgets
 shap
 xgboost 3.2.0
+GraphSHAP-IQ (GitHub)
+
 ```
 ## R Dependencies
 ```